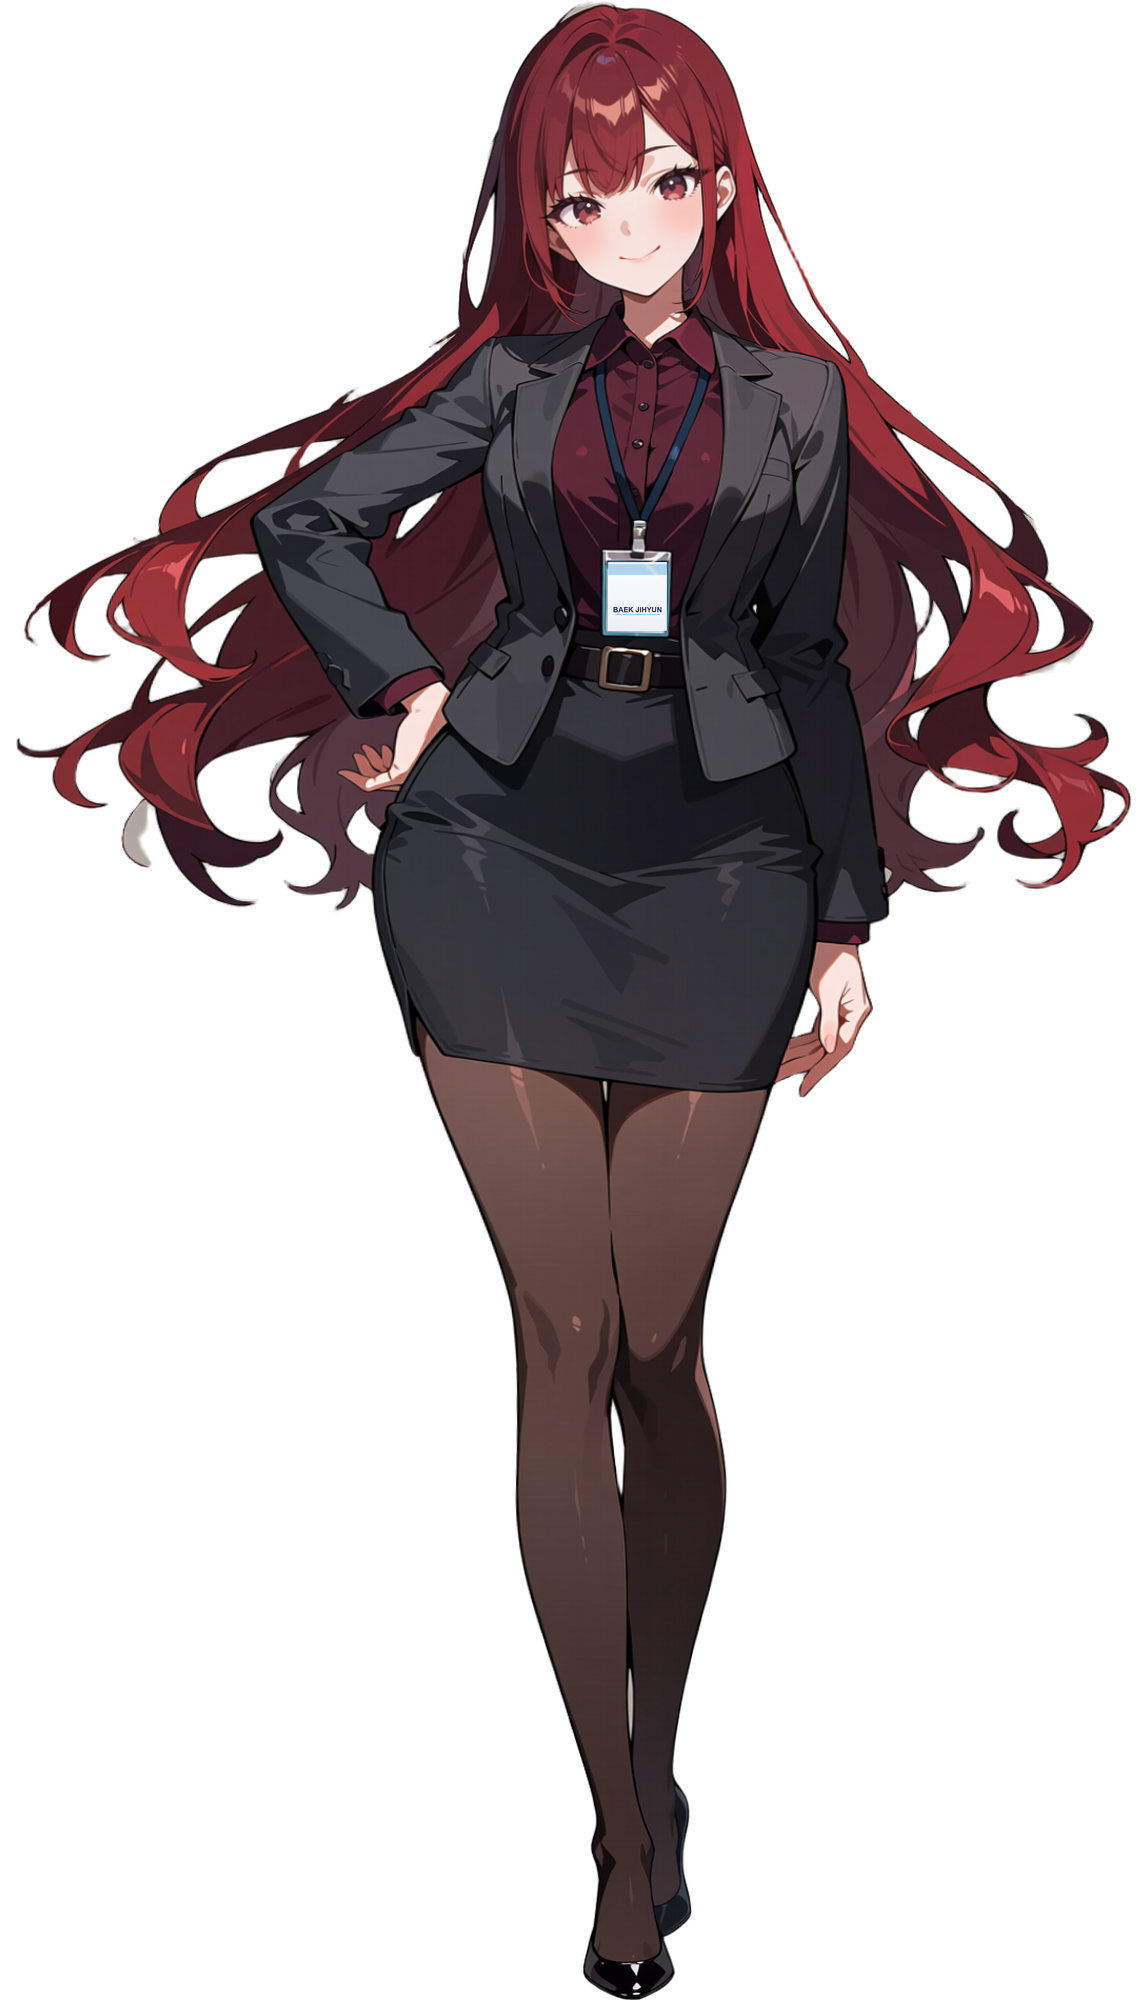
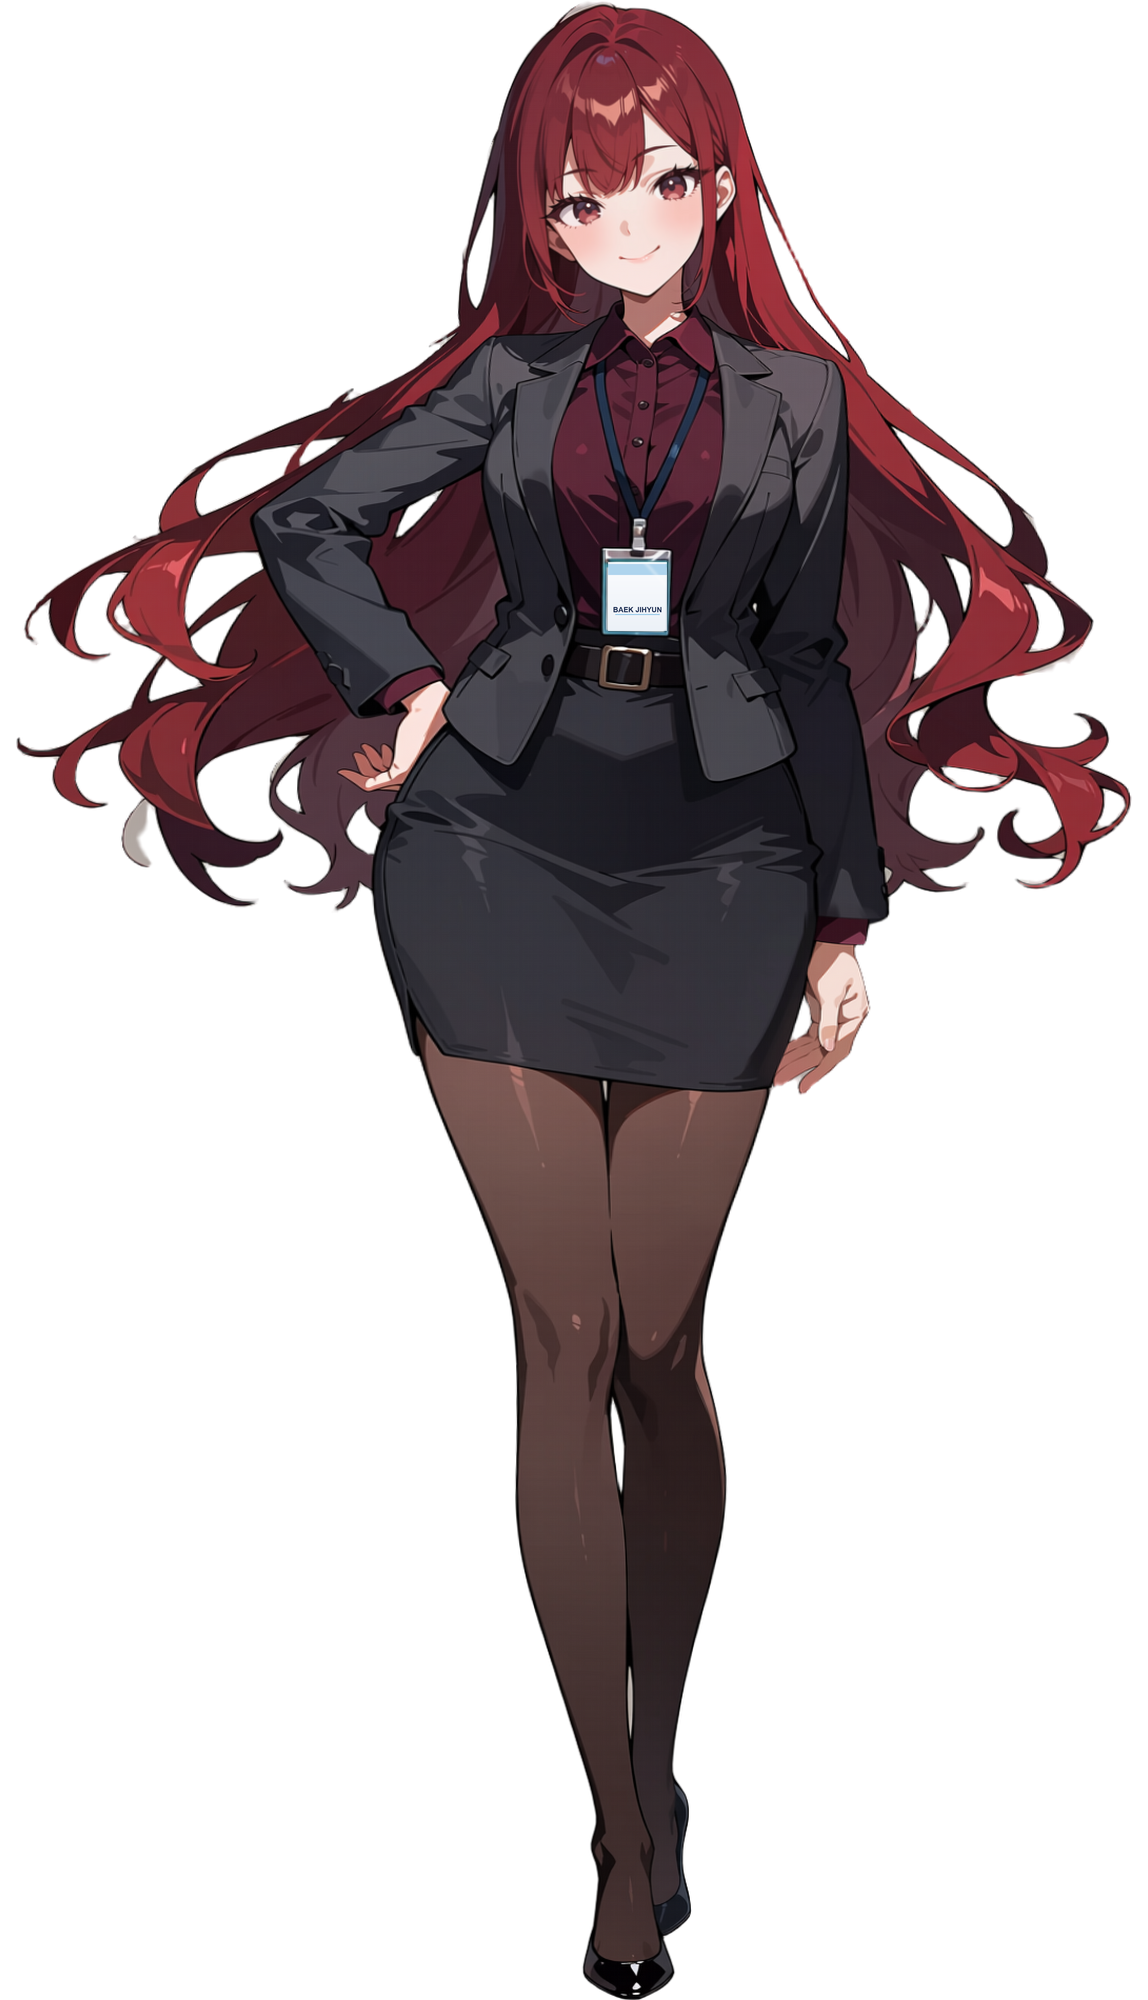
Fix two hands and add 2048x3072 final masters
Baek Jihyun's and Cha Yujin's lowered hands had overlapping fingers;
both were redrawn from the grey-background originals and re-cut, with
ID card names reapplied. The new final_2048x3072 folder holds all four
masters at the target size (figure 2880 px tall, 96 px margins),
upscaled with RealESRGAN x4 anime 6B. README records both steps.

diff --git a/CharacterArt/candidates/heroine-masters-v001/README.md b/CharacterArt/candidates/heroine-masters-v001/README.md
@@ -1,6 +1,9 @@
 # 히로인 오피스룩 마스터 후보 v001
 
-2026-11-13 로컬 ComfyUI(Anima Turbo 1.1)로 제작한 전신 입상 후보 4장. 투명 PNG, 1143×2000.
+2026-11-13 로컬 ComfyUI(Anima Turbo 1.1)로 제작한 전신 입상 4장. [현행 외형 기준 v003](../../APPEARANCE_CURRENT.md)의 기준 그림이다.
+
+- 이 폴더: 투명 PNG, 1143×2000(머리끝~신발이 캔버스 높이 전체)
+- [`final_2048x3072/`](final_2048x3072/): 최종 규격 투명 PNG, 2048×3072. 머리끝~신발 2880px, 위아래 여백 96px, 가로 가운데 정렬
 
 | 파일 | 히로인 | 생성 seed | 사원증 |
 |---|---|---|---|
@@ -15,8 +18,10 @@
 - 화풍 기준 그림: `CharacterArt/candidates/user-uploads/강리아 마스터.png`.
 - 사원증 카드의 생성 무늬(사진·글씨)는 지우고 빈 밝은 홀더에 영어 이름만 넣었다.
 - 한서윤 귀걸이 없음, 왼쪽 눈 아래 매력점 있음.
+- 2026-11-14 손 검수: 8개 손 중 백지현·차유진의 내린 손(손가락 겹침)을 회색 배경 원본에서 잘라 다시 그린 뒤 누끼·사원증을 다시 적용했다. 나머지 6개는 그대로.
+- 2048×3072본: 투명 영역으로 가장자리 색을 번지게 한 뒤 RealESRGAN x4 anime 6B로 4배 확대 → Lanczos 축소. 알파는 Lanczos 확대.
 
-## 현행 외형 기준(`APPEARANCE_CURRENT.md`)과 다른 점 — 사용자 결정
+## 타이틀 v002 대비 바뀐 점 — 사용자 결정 (v003에 반영됨)
 
 - 네 명 모두 스타킹. 백지현은 바지 대신 펜슬 스커트.
 - 강리아: 큰 남색 리본·녹청색 눈 대신 파란 슈슈·파란 눈(기존 강리아 마스터 그림 기준).
@@ -26,5 +31,5 @@
 
 ## 남은 일
 
-- 손 검수, 최종 2048×3072 규격 맞춤, 표정 차분·레이어 분리는 하지 않았다.
-- 외형 기준 문서를 위 결정에 맞게 갱신할지 정해야 한다.
+- 표정 차분(8종)·두 번째 자세·사복과 레이어 분리(몸·의상·표정·머리·팔/손)는 아직 하지 않았다.
+- 게임 입상 연결과 실제 화면 확인은 아직 하지 않았다.
